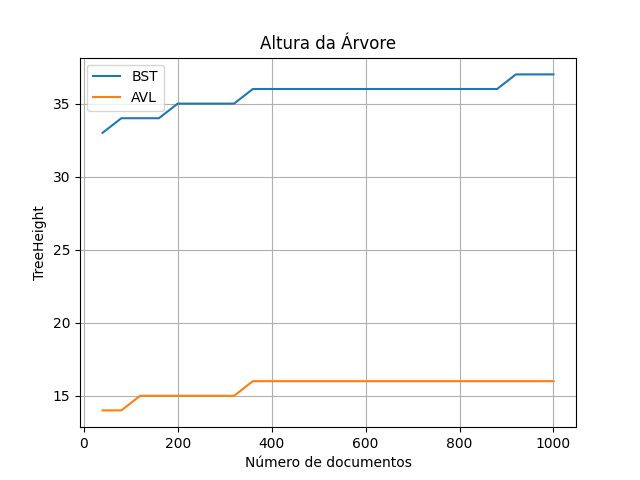
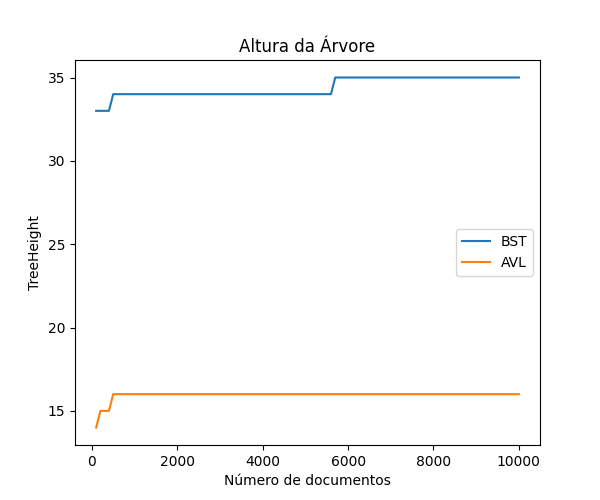
nova vizualizacao

diff --git a/docs/visualizations.py b/docs/visualizations.py
@@ -14,21 +14,20 @@ def plot_graph(ax, col_name, title):
     ax.set_ylabel(col_name)
     ax.set_title(title)
     ax.legend()
-    ax.grid()
 
 def save_branch_graph(col_name_1, col_name_2, title):
     _, axes = plt.subplots(1, 1, figsize=(6, 5)) 
-    plot_graph(axes[0], col_name_1, title)
-    axes[0].plot(avl["N_docs"], avl[col_name_2], color="#ff7f0e")
-    axes[0].plot(bst["N_docs"], bst[col_name_2], color="#1f77b4")
+    plot_graph(axes, col_name_1, title)
+    axes.plot(avl["N_docs"], avl[col_name_2], color="#ff7f0e")
+    axes.plot(bst["N_docs"], bst[col_name_2], color="#1f77b4")
     # axes[0].plot(rbt["N_docs"], rbt[col_name_2], color="#2ca02c")
-    axes[0].set_ylabel("Tamanaho do galho")
+    axes.set_ylabel("Tamanaho do galho")
     plt.savefig(f'docs/graphs/grafico_branchs.png')
     plt.close()
     
 def save_simple_graph(col_name, title):
     _, axes = plt.subplots(1, 1, figsize=(6, 5)) 
-    plot_graph(axes[0], col_name, title)
+    plot_graph(axes, col_name, title)
     plt.savefig(f'docs/graphs/grafico_{col_name}.png')
     plt.close()
 
@@ -40,8 +39,8 @@ def save_double_graph(col_name_1, col_name_2, pre, title, path):
     plt.savefig(f'docs/graphs/grafico_{path}.png')
     plt.close()
 
-save_double_graph(col_names[0], col_names[1], pre="Tempo", title="de Inserção de Palavra", path="ExecutionTimeInsertion")
-save_double_graph(col_names[2], col_names[3], pre="Tempo", title="de Busca de Palavra", path="ExecutionTimeSearch")
+save_double_graph(col_names[0], col_names[1], pre="Tempo", title="de Inserção de uma Palavra", path="ExecutionTimeInsertion")
+save_double_graph(col_names[2], col_names[3], pre="Tempo", title="de Busca de uma Palavra", path="ExecutionTimeSearch")
 save_double_graph(col_names[4], col_names[5], pre="Número", title="de Comparações para Inserção", path="NumComparisonsInsertion")
 save_double_graph(col_names[6], col_names[7], pre="Número", title="de Comparações para Busca", path="NumComparisonsSearch")
 save_simple_graph(col_names[8], title="Altura da Árvore")
